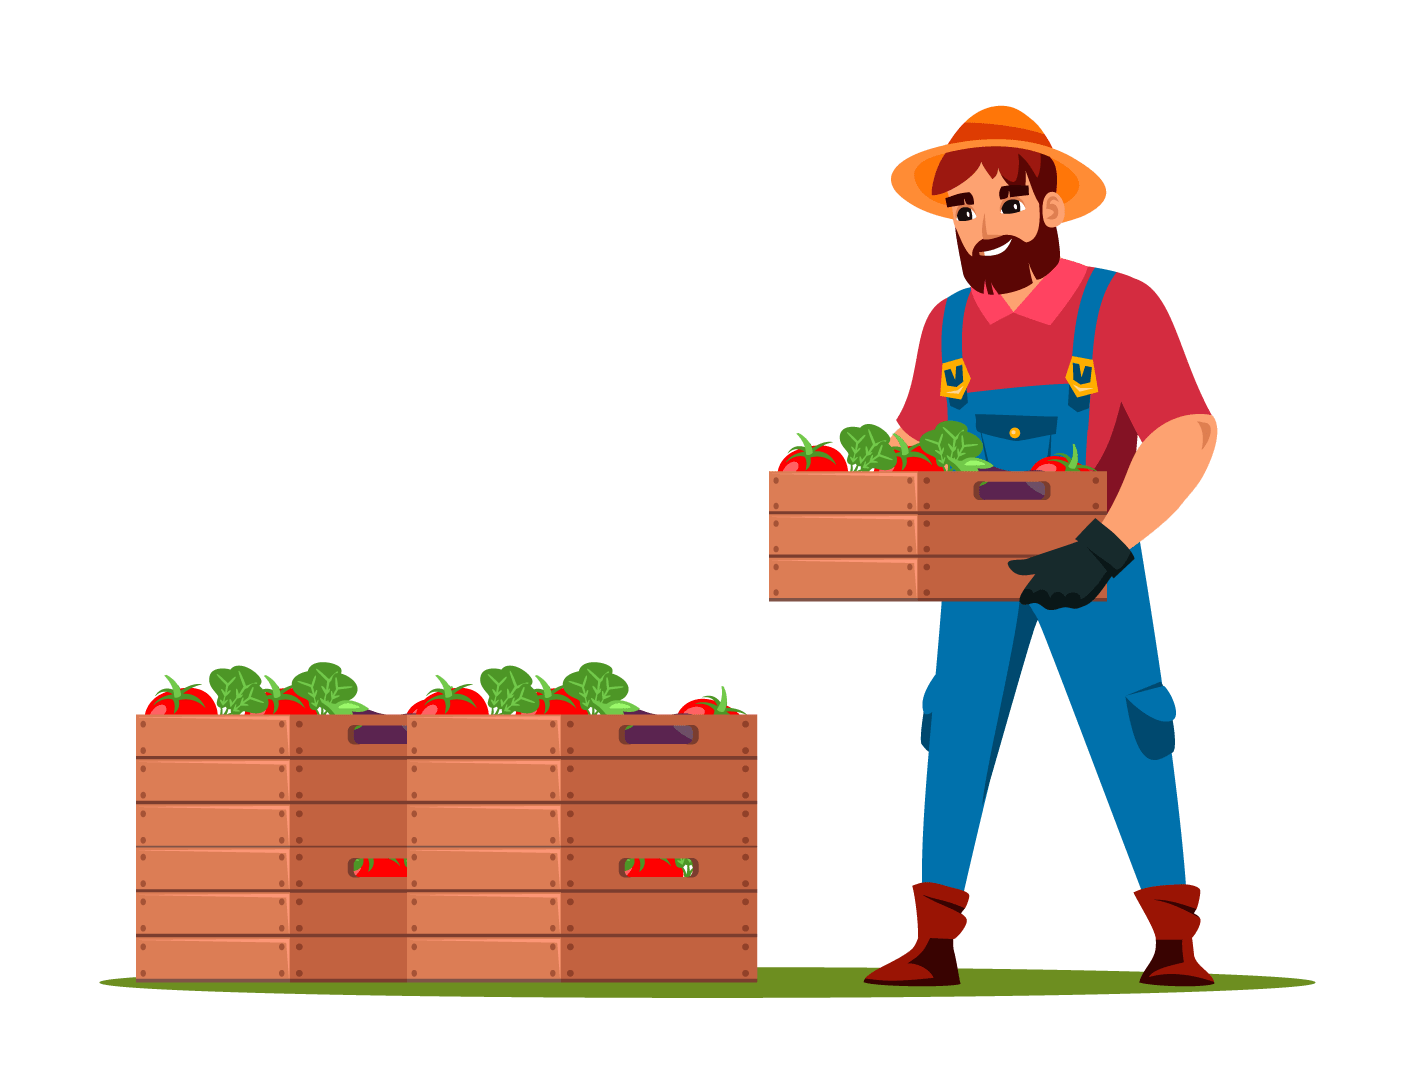
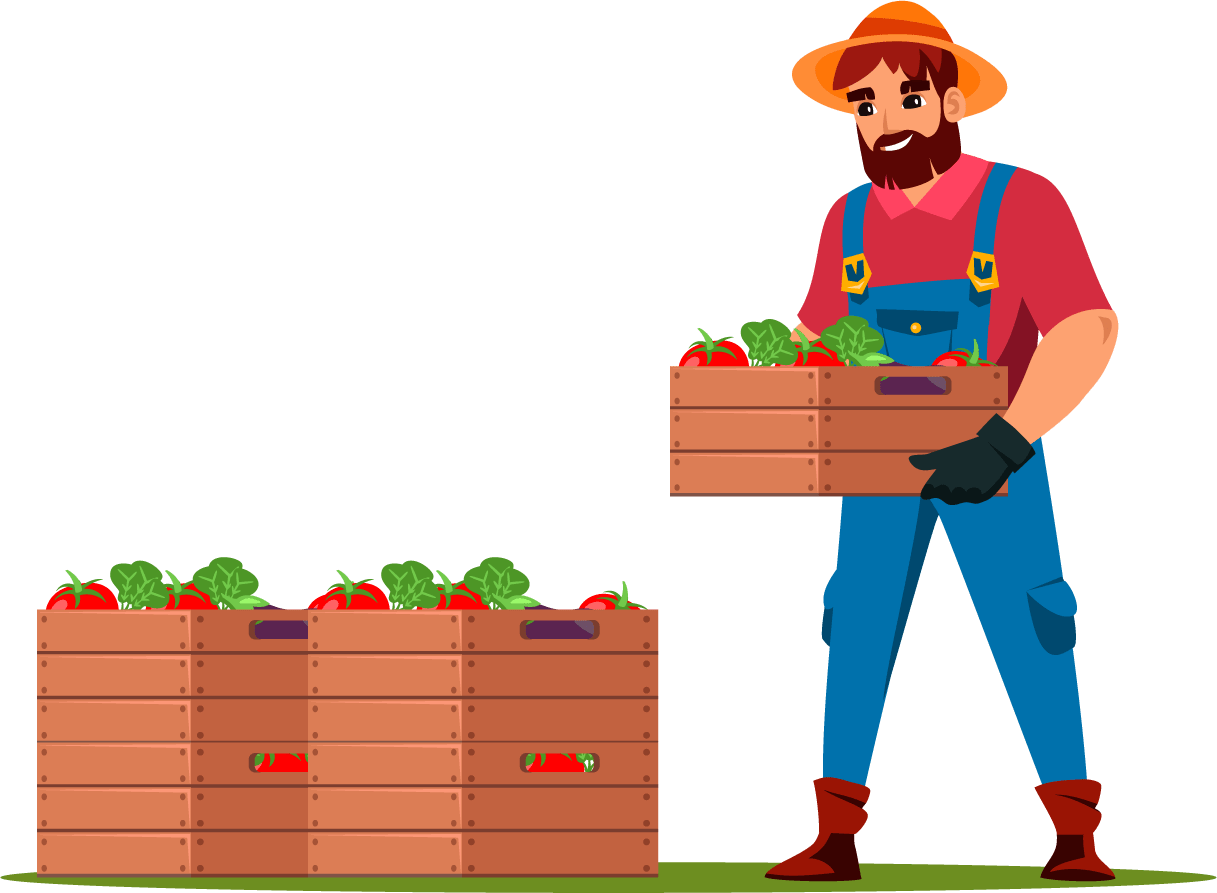
Prueba #1 del vh en CSS de la pagina fruit_box

diff --git a/css/fruit_box.css b/css/fruit_box.css
@@ -14,14 +14,23 @@ body {
     font-size: 16px;
     margin: 0;
     padding: 0;
+    display: flex;
+    flex-direction: column;
+    min-height: 100vh;
+    margin: 0;
 }
 
-h2 {
-    font-size: 30px;
+h1 {
+    font-size: 2em;
     text-align: center;
     margin-top: 0px;
 }
 
+h2 {
+    font-size: 1.2em;
+    padding: 0 3em;
+    margin-bottom: 0;
+}
 button {
     width: 6em;
     height: 3em;
@@ -35,16 +44,15 @@ button {
 
 #container {
     width: 50%;
+    height: 95vh;
+    display: flex;
+    flex-direction: column;
+    justify-content: space-between;
     padding: 0;
-    text-align: left;
+    text-align: center;
     border: 1px solid #ddd;
     margin: 0 auto;
-}
-
-#container h1 {
-    font-size: 1.2em;
-    padding: 0 3em;
-    margin-bottom: 0;
+    background: white;
 }
 
 #cabecera {
@@ -62,20 +70,19 @@ button {
     text-align: center;
 }
 
-#post,
-#win,
-#lose {
-    background: white;
-    padding: 0.8em;
-    display: grid;
-    place-items: center;
-    text-align: center;
+#post, #win, #lose {
+    flex-grow: 1;
+    display: flex;
+    flex-direction: column;
+    align-items: center;
+    justify-content: center;
 }
 
 #fruit_box_img img {
     display: inline-block;
     width: auto;
-    height: 18em;
+    height: 16em;
+    margin-top: 1em;
 }
 
 #footer {
@@ -102,6 +109,7 @@ button {
     flex-direction: column;
     align-items: center;
     justify-content: center;
+    margin: 0.5em 0;
 }
 
 .box select {
@@ -141,7 +149,6 @@ button {
 
 @media (max-width: 1440px) {
     #container {
-        flex-direction: column;
         width: 70%;
     }
 }
@@ -149,20 +156,24 @@ button {
 @media (max-width: 1024px) {
     #container {
         width: 90%;
+        height: max-content;
     }
 }
 
 @media (max-width: 768px) {
-    #container {
-        width: 100%;
-    }
-    #container h1 {
+    h2 {
         padding: 0 2em;
     }
+    #container {
+        width: 100%;
+    } 
     #post {
         display: flex;
         text-align: center;
         flex-direction: column;
+    }
+    #fruit_box_img img {
+        height: 14em;
     }
     .list {
         padding: 0 5em;
@@ -180,12 +191,18 @@ button {
         margin:0.5em 0 0.5em 0;
         font-size: 1em;
     }
+    h2 {
+        font-size: 1.1em;
+        padding: 0;
+    }
+    #container {
+        height: 85vh;
+    }
     #fruit_box_img img {
         height: 15em;
     }
-    #container h1 {
-        font-size: 1.1em;
-        padding: 0;
+    #fruit_box_img img {
+        height: 12em;
     }
     .box {
         height: 140px;

diff --git a/pages/fruit_box.html b/pages/fruit_box.html
@@ -13,7 +13,7 @@
             <span id="tagline">Desafío de Pensamiento Lógico</span>
         </div>
         <div id="post">
-            <h1>Tengo 3 cajas con una fruta diferente cada una (peras, manzanas y naranjas). Todas las cajas tienen las etiquetas de las frutas incorrectas.<br>¿Cuántas necesito abrir para colocar las etiquetas correctamente?</h1>
+            <h2>Tengo 3 cajas con una fruta diferente cada una (peras, manzanas y naranjas). Todas las cajas tienen las etiquetas de las frutas incorrectas.<br>¿Cuántas necesito abrir para colocar las etiquetas correctamente?</h2>
             <div id="fruit_box_img">
                 <img src="../img/frutas.png" alt="frutas">
             </div>
@@ -33,11 +33,10 @@
                     </div>
                 </div>
             </section>
-
         </div>
           
         <div id="win" style="display: none;">
-            <h2>¡Felicitaciones! 🥳</h2>
+            <h1>¡Felicitaciones! 🥳</h1>
             <p>¡La repuesta correcta es que solo debemos abrir <b>UNA</b> caja!</p>
             <div id="fruit_box_img">
                 <img src="../img/frutas.png" alt="frutas">
@@ -55,7 +54,7 @@
         </div>
 
         <div id="lose" style="display: none;">
-            <h2>Lo siento, has perdido 😥</h2>
+            <h1>Lo siento, has perdido 😥</h1>
             <p>No te preocupes si elegiste una opción incorrecta.</p>
             <p>Recuerda que el pensamiento lógico es una habilidad que se adquiere con la práctica.</p>
             <button id="reboot" onclick="reloadGame()">Reiniciar</button>
